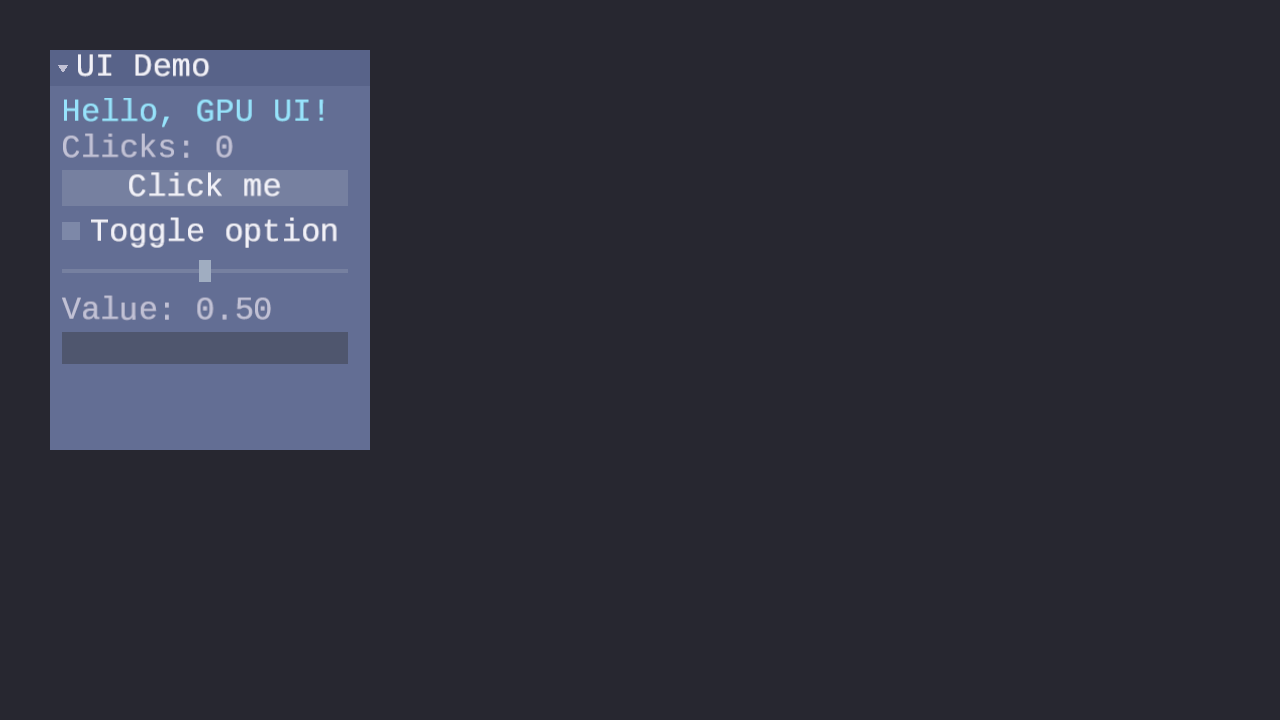
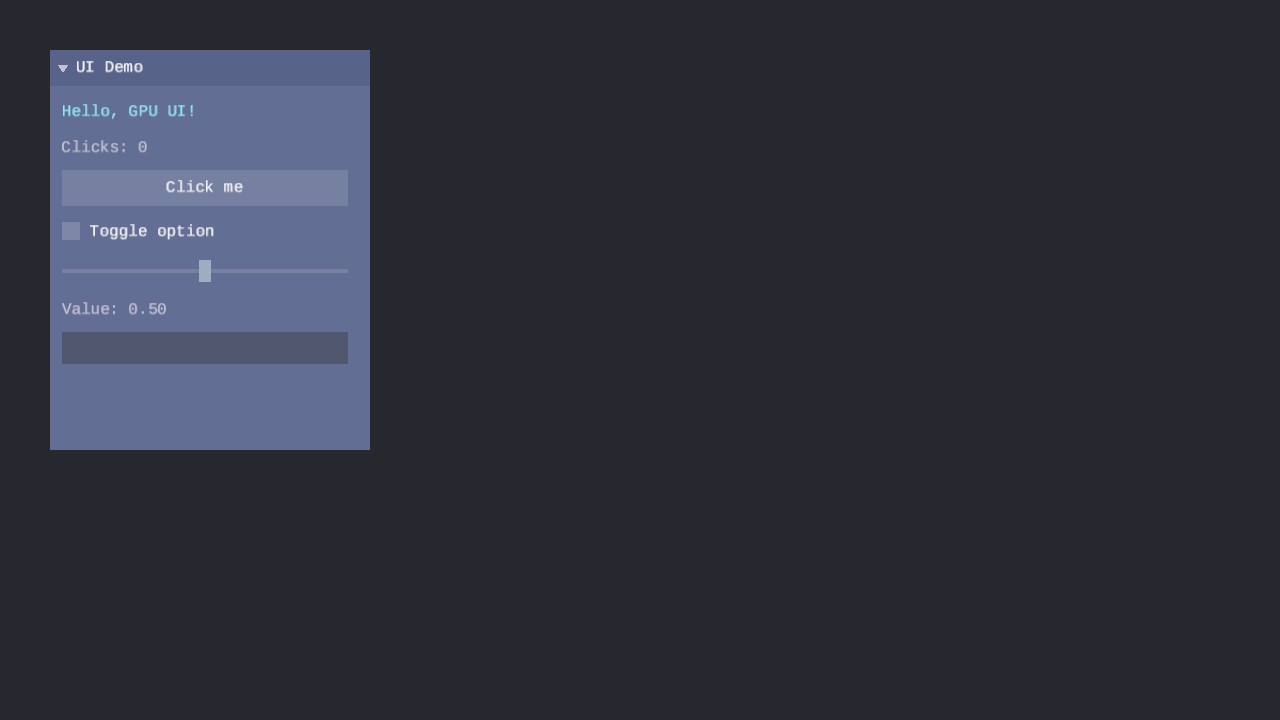
Fix GPU Lesson 28 UI — apply font scaling from UI Lesson 12 (#163)
The atlas was built at 32px, nearly filling the 26-36px widget rows and
leaving no visible padding.  Reduce ATLAS_PIXEL_HEIGHT to 16px (the
standard base design size from UI Lesson 12) and configure the context's
scale/base_pixel_height/scaled_pixel_height fields so the FORGE_UI_SCALED
spacing system works correctly.

Files changed:
- lessons/gpu/28-ui-rendering/main.c — reduce font size, configure scale
- lessons/gpu/28-ui-rendering/assets/screenshot.png — updated screenshot

diff --git a/lessons/gpu/28-ui-rendering/main.c b/lessons/gpu/28-ui-rendering/main.c
@@ -63,8 +63,10 @@
 /* Font asset path (relative to executable, same as all UI lessons). */
 #define FONT_PATH "assets/fonts/liberation_mono/LiberationMono-Regular.ttf"
 
-/* Atlas build parameters. */
-#define ATLAS_PIXEL_HEIGHT 32.0f  /* glyph rasterization height in pixels */
+/* Atlas build parameters.  16px is the standard base design size used across
+ * the UI lessons (see UI Lesson 12 -- Font Scaling and Spacing).  At 1280x720
+ * this gives well-proportioned text with room for widget padding. */
+#define ATLAS_PIXEL_HEIGHT 16.0f  /* glyph rasterization height in pixels */
 #define ATLAS_PADDING      1      /* pixel padding between packed glyphs  */
 #define ASCII_START        32     /* first printable ASCII codepoint      */
 #define ASCII_END          126    /* last printable ASCII codepoint       */
@@ -675,6 +677,15 @@ SDL_AppResult SDL_AppInit(void **appstate, int argc, char *argv[])
         SDL_Log("forge_ui_ctx_init failed");
         goto init_fail;
     }
+
+    /* Configure the scale system (UI Lesson 12).  scale = 1.0 means the
+     * atlas was built at the base design size; FORGE_UI_SCALED will use
+     * the spacing defaults (widget_padding 10px, item_spacing 10px, etc.)
+     * without modification.  Setting base/scaled pixel height enables
+     * the context to rebuild the atlas if the scale changes later. */
+    state->ui_ctx.scale              = 1.0f;
+    state->ui_ctx.base_pixel_height  = ATLAS_PIXEL_HEIGHT;
+    state->ui_ctx.scaled_pixel_height = ATLAS_PIXEL_HEIGHT;
 
     if (!forge_ui_wctx_init(&state->ui_wctx, &state->ui_ctx)) {
         SDL_Log("forge_ui_wctx_init failed");
